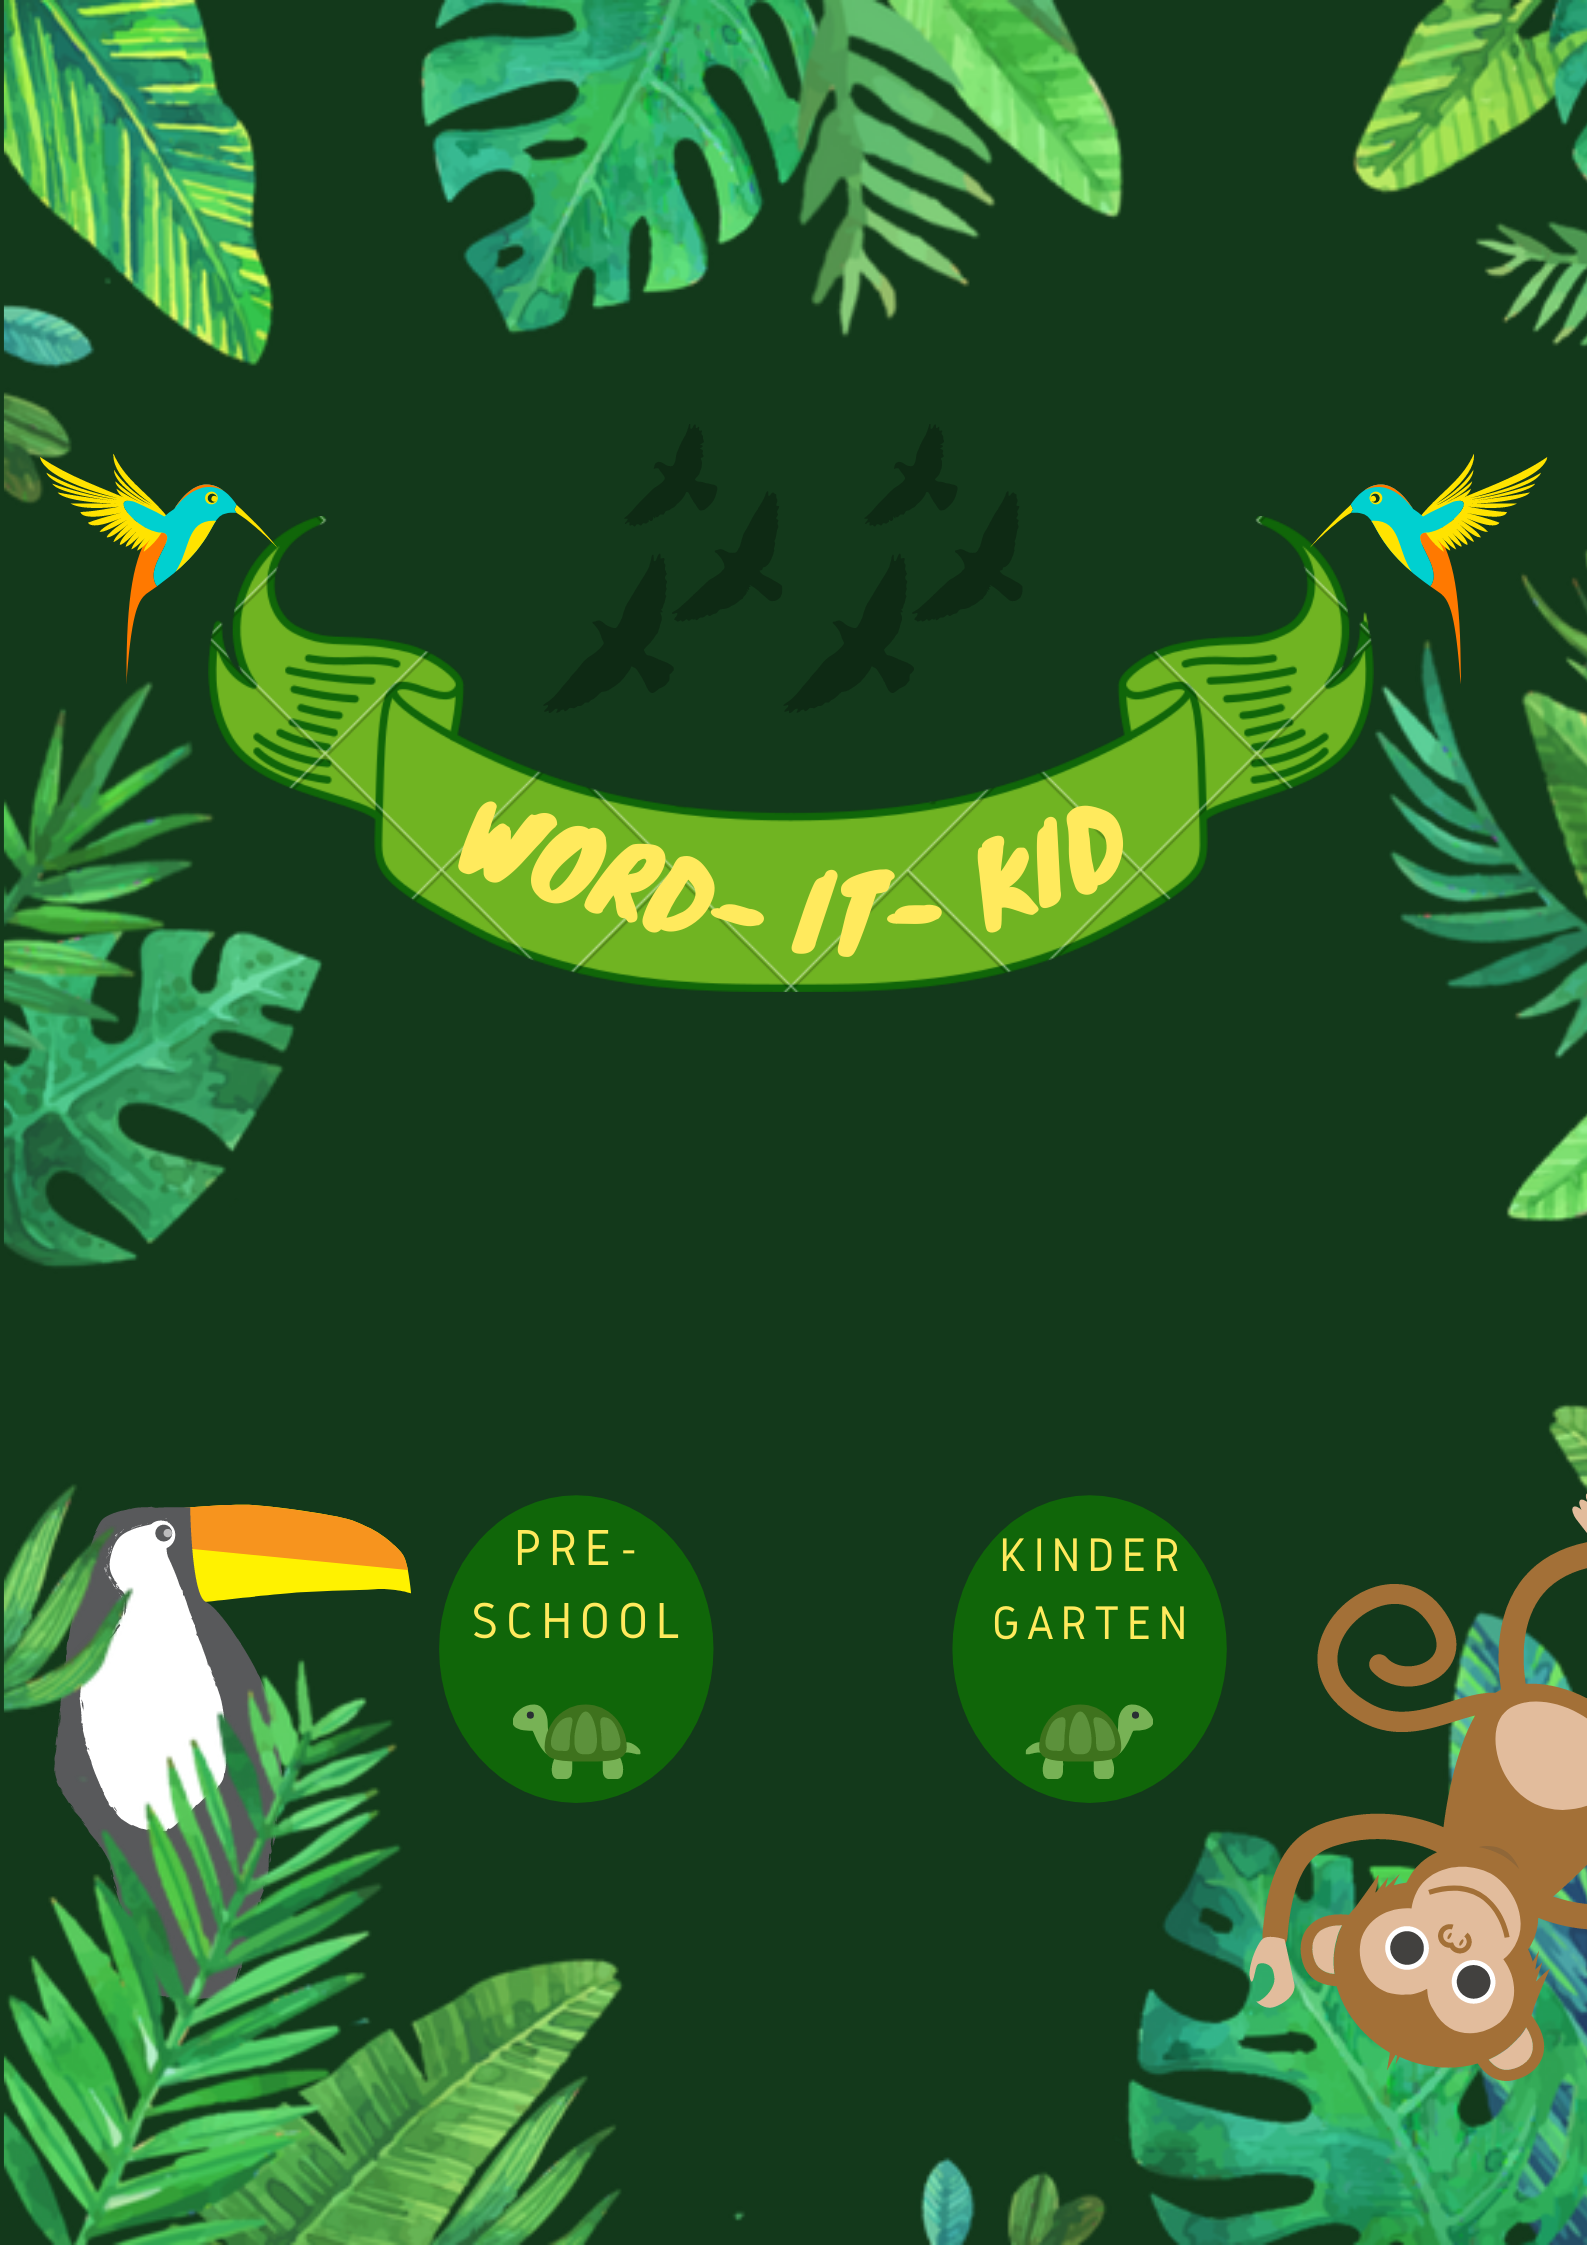
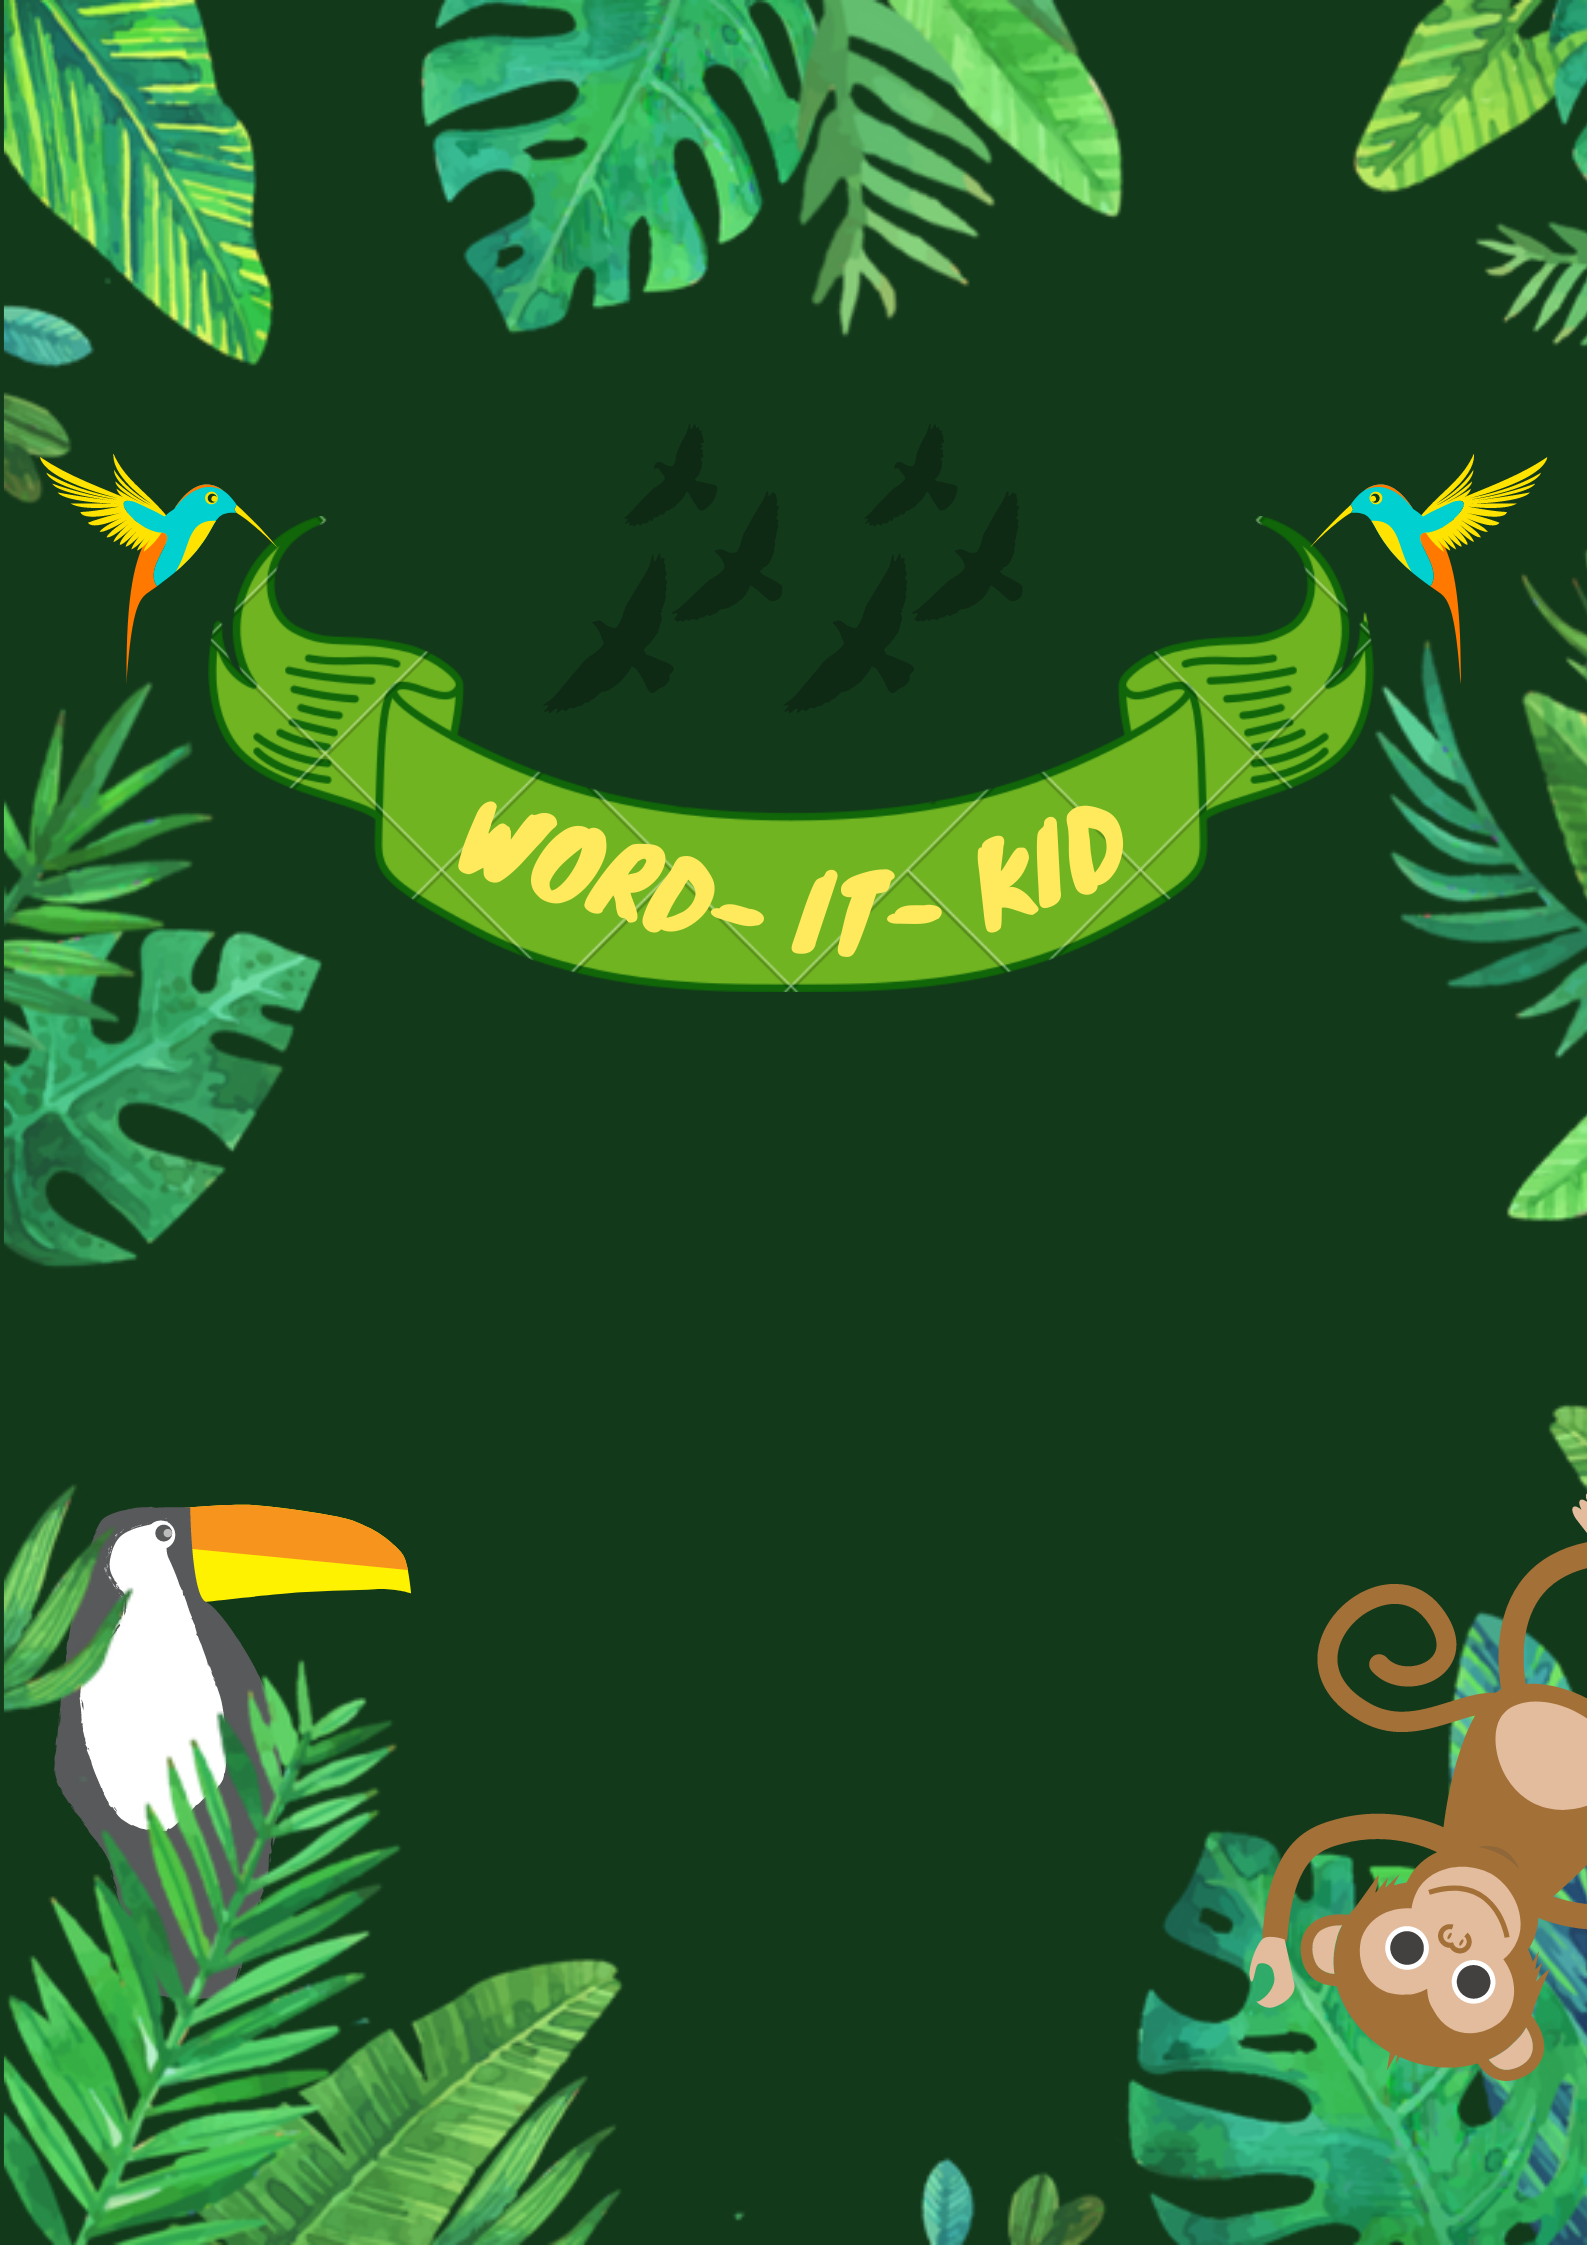
edited home page

Changed region(s): [[0.5866, 0.6548, 0.7719, 0.8107], [0.2779, 0.6548, 0.4631, 0.8107]]

diff --git a/word_it_kid/lib/home.dart b/word_it_kid/lib/home.dart
@@ -9,18 +9,17 @@ class Home extends StatefulWidget {
   HomeState createState() => new HomeState();
 }
 
-class HomeState extends State<Home>{
+class HomeState extends State<Home> {
   String name = "";
   String radioValue;
 
   @override
   Widget build(BuildContext context) {
     return Scaffold(
-
       resizeToAvoidBottomPadding: false,
-
       body: Container(
         alignment: Alignment.center,
+        height: MediaQuery.of(context).size.height,
 
         decoration: BoxDecoration(
           image: DecorationImage(
@@ -28,119 +27,157 @@ class HomeState extends State<Home>{
             fit: BoxFit.fill,
           ),
         ),
+        child: Card(),
+      ),
+    );
+  }
+}
 
-        child: Column(
-          children: <Widget>[
+class Card extends StatefulWidget {
+  @override
+  DemoCard createState() => new DemoCard();
+}
 
-            Row(
+class DemoCard extends State<Card> {
+  String name = "";
+  String radioValue;
+
+  build(context) {
+    return Container(
+      alignment: Alignment.bottomCenter,
+      margin: EdgeInsets.only(bottom: 80, left: 24, right: 24),
+      padding: EdgeInsets.all(8),
+      width: MediaQuery.of(context).size.width,
+
+      child: Column(
+        crossAxisAlignment: CrossAxisAlignment.stretch,
+        mainAxisSize: MainAxisSize.min,
+
+        children: <Widget>[
+
+          Container(
+            alignment: Alignment.center,
+
+            child: TextField(
+              autofocus: true,
+              cursorColor: Colors.green,
+              textDirection: TextDirection.ltr,
+
+              decoration: InputDecoration(
+                contentPadding: EdgeInsets.only(left: 100.0),
+                labelText: 'ENTER NAME',
+                labelStyle: TextStyle(
+                  color: Colors.yellow,
+                  fontSize: 25.0,
+                ),
+
+                focusedBorder: UnderlineInputBorder(
+                  borderSide: BorderSide(
+                    color: Colors.green,
+                  ),
+                ),
+              ),
+
+              style: TextStyle(
+                fontSize: 25.0,
+                color: Colors.green,
+              ),
+            ),
+          ),
+
+
+          SizedBox(height: 20,),
+
+          Text(
+            'SELECT GROUP',
+            style: TextStyle(
+              color: Colors.yellow,
+              fontSize: 20.0,
+            ),
+            textAlign: TextAlign.center,
+          ),
+
+          Container(
+            margin: EdgeInsets.only(top: 20),
+            child: Row(
+              mainAxisAlignment: MainAxisAlignment.spaceEvenly,
               children: <Widget>[
-                Expanded(
-                  child: Container(
-                    margin: EdgeInsets.only(left: 65, right: 65),
-                    padding: EdgeInsets.only(top: 380.0),
-                    child: TextField(
-                      autofocus: true,
-                      cursorColor: Colors.green,
-                      textDirection: TextDirection.ltr,
 
-                      onChanged: (String textinput) {
-                        setState(() {
-                          name = textinput;
-                        });
-                      },
+                Container(
+                  padding: EdgeInsets.only(top: 10, left: 10, right: 10),
+                  decoration: BoxDecoration(
+                    color: Colors.green,
+                    borderRadius: BorderRadius.all(Radius.circular(50)),
+                  ),
 
-                      decoration: InputDecoration(
-                        contentPadding: EdgeInsets.only(left: 70),
-                        labelText: 'ENTER NAME',
-                        labelStyle: TextStyle(
-                          fontWeight: FontWeight.bold,
+                  child: Column(
+                    children: <Widget>[
+                      Text(
+                        'PRE-\nSCHOOL',
+                        style: TextStyle(
                           color: Colors.yellow,
                         ),
-                        focusedBorder: UnderlineInputBorder(
-                            borderSide: BorderSide(
-                              color: Colors.green,
-                            )
+                        textAlign: TextAlign.center,
+                      ),
+                      Icon(Icons.pets),
+
+                      SizedBox(
+                        child: Radio(
+                          onChanged: (String val) {
+                            setRadioValue(val);
+                          },
+                          activeColor: Colors.yellow,
+                          value: 'pre-school',
+                          groupValue: radioValue,
                         ),
                       ),
-
-                      style: TextStyle(
-                        decoration: TextDecoration.none,
-                        fontSize: 25.0,
-                        fontWeight: FontWeight.w700,
-                        color: Colors.green,
-                      ),
-                    ),
+                    ],
                   ),
                 ),
-              ],
-            ),
 
-            Row(
-              children: <Widget>[
-                Expanded(
-                  child: Container(
-                    margin: EdgeInsets.only(left: 65, right: 65),
-                    padding: EdgeInsets.only(top: 30.0),
+                Container(
+                  padding: EdgeInsets.only(top: 10, left: 10, right: 10),
+                  decoration: BoxDecoration(
+                    color: Colors.green,
+                    borderRadius: BorderRadius.all(Radius.circular(50)),
+                  ),
 
-                    child: Text(
-                      "SELECT GROUP",
-                      style: TextStyle(
-                        fontWeight: FontWeight.bold,
-                        color: Colors.yellow,
-                        decoration: TextDecoration.none,
-                        fontSize: 20.0,
+                  child: Column(
+                    children: <Widget>[
+                      Text(
+                        'KINDER\nGARTEN',
+                        style: TextStyle(
+                          color: Colors.yellow,
+                        ),
+                        textAlign: TextAlign.center,
                       ),
-                      textAlign: TextAlign.center,
-                      textDirection: TextDirection.ltr,
-                    ),
+                      Icon(Icons.pets),
+
+                      SizedBox(
+                        child: Radio(
+                          onChanged: (String val) {
+                            setRadioValue(val);
+                          },
+                          activeColor: Colors.yellow,
+                          value: 'kindergarten',
+                          groupValue: radioValue,
+                        ),
+                      ),
+                    ],
                   ),
                 ),
+
               ],
             ),
+          ),
 
-            Row(
+          SizedBox(height: 20,),
 
+          Container(
+            child: Row(
               mainAxisAlignment: MainAxisAlignment.center,
               children: <Widget>[
-
-                Padding(
-                  padding: EdgeInsets.only(top: 160),
-                ),
-
-                SizedBox(
-                  width: 145,
-                  child: Radio(
-                    onChanged: (String val) {
-                      setRadioValue(val);
-                    },
-                    activeColor: Colors.green,
-                    value: 'pre-school',
-                    groupValue: radioValue,
-                  ),
-                ),
-
-                SizedBox(
-                  width: 110,
-                  child: Radio(
-                    onChanged: (String val) {
-                      setRadioValue(val);
-                    },
-                    activeColor: Colors.green,
-                    value: 'kindergarten',
-                    groupValue: radioValue,
-                  ),
-                )
-              ],
-            ),
-
-            Container(
-              height: 22,
-              width: 50,
-              child: Material(
-                borderRadius: BorderRadius.circular(120.0),
-                color: Colors.green,
-                elevation: 7.0,
-                child: FloatingActionButton(
+                FloatingActionButton(
                   onPressed: () {
                     debugPrint('Clicked');
                     Navigator.push(context, MaterialPageRoute(builder: (context){
@@ -158,10 +195,10 @@ class HomeState extends State<Home>{
                     ),
                   ),
                 ),
-              ),
+              ],
             ),
-          ],
-        ),
+          )
+        ],
       ),
     );
   }
